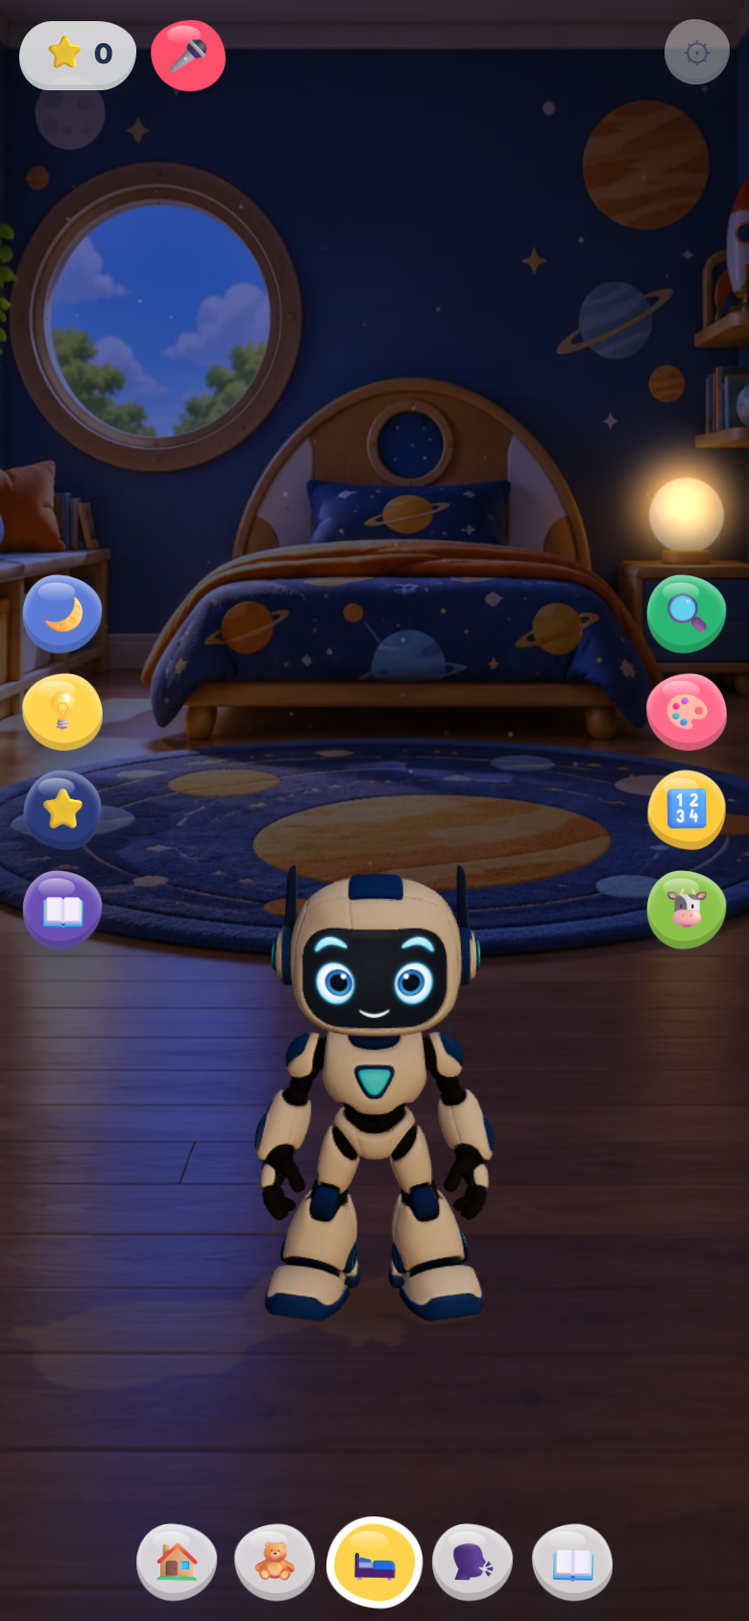
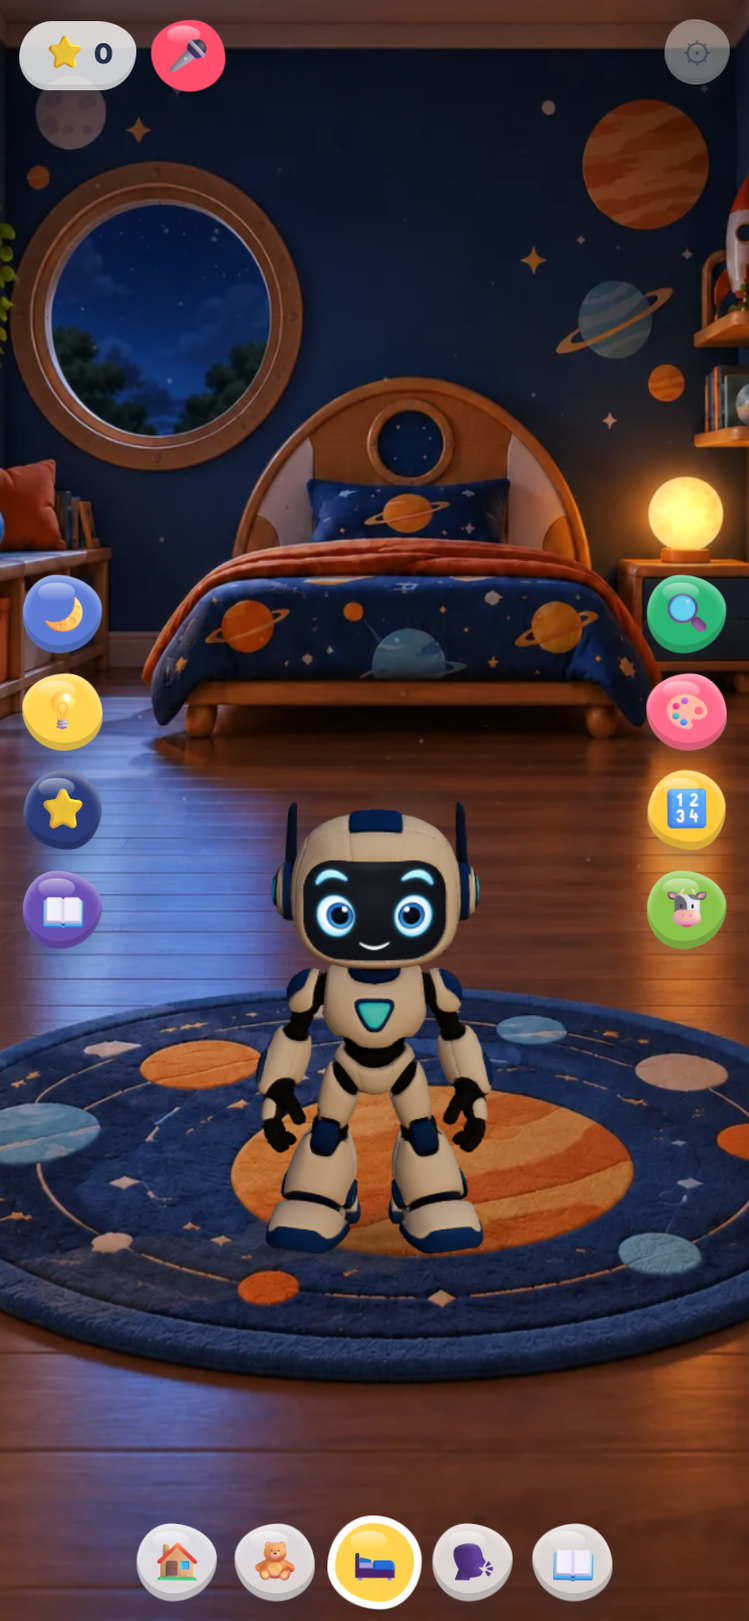
Mid-century living room; new bedroom with a night picture that the lights-off fades to

diff --git a/index.html b/index.html
@@ -1527,19 +1527,19 @@ const PAINT={
       place:{teddy:[.3,.75],cow:[.7,.76]},light:{sun:['#fff3e0',1.15],dir:[6,8,-1],hemi:['#e8f4ff','#b08a5e',.75],fill:['#fff0dd',.45],shadow:.32,exp:.95},
       beam:[.92,.18,158,.07,.75,.08],dust:[.25,.15,.85,.6],fg:{crop:[.86,0,.93,.6],at:'tr',h:.85},lamps:[],
       taps:[{r:[.427,.573,.479,.616],w:'w_car'},{r:[.91,.03,1,.45],w:'w_window'},{r:[.076,.464,.128,.55],w:'w_teddy'}]}},
-  // living room (Persian sunset) and bedroom (space explorer), 2026-10-25: taps with f = that furniture's action (tapFurniture: bed = sleep, lamp = lights)
-  home:{keep:[],portrait:{img:'assets/rooms/home_portrait.webp',size:[810,1440],focus:[.5,.5],fov:50,horizon:.3,wall:.475,goo:[.5,.82,.25],rug:[.5,.75,.42,.15],
-      light:{sun:['#ffcf9a',1.3],dir:[-2,8,-6],hemi:['#ffe6cc','#9a5a35',.7],fill:['#ffd9b0',.5],shadow:.38,exp:.95},beam:[.5,.3,90,.08,.7,.08],dust:[.2,.15,.8,.6],lamps:[[.895,.1,.06]],
-      taps:[{r:[.84,.03,.95,.16],f:'lamp'},{r:[.33,.07,.68,.37],w:'w_window'},{r:[0,.36,.27,.49],w:'w_chair'},{r:[.88,.28,1,.38],w:'w_tea'}]},
-    landscape:{img:'assets/rooms/home_landscape.webp',size:[1440,810],focus:[.5,.55],fov:50,horizon:.42,wall:.665,goo:[.5,.82,.3],rug:[.5,.84,.36,.12],
-      light:{sun:['#ffcf9a',1.3],dir:[-2,8,-6],hemi:['#ffe6cc','#9a5a35',.7],fill:['#ffd9b0',.5],shadow:.38,exp:.95},beam:[.5,.35,90,.07,.65,.08],dust:[.2,.15,.8,.6],lamps:[[.78,.15,.05]],
-      taps:[{r:[.74,.05,.82,.23],f:'lamp'},{r:[.38,.09,.62,.5],w:'w_window'},{r:[.14,.47,.3,.66],w:'w_chair'},{r:[.8,.37,.87,.5],w:'w_tea'}]}},
-  bed:{keep:[],portrait:{img:'assets/rooms/bed_portrait.webp',size:[810,1440],focus:[.5,.55],fov:50,horizon:.26,wall:.42,goo:[.5,.8,.26],rug:[.5,.78,.38,.12],
-      light:{sun:['#fff0dc',1.15],dir:[5,8,-2],hemi:['#e2e9ff','#8a5a3a',.75],fill:['#ffe6c8',.45],shadow:.32,exp:.95},beam:[.2,.2,60,.05,.8,.07],dust:[.15,.1,.85,.55],lamps:[[.84,.31,.06]],
-      taps:[{r:[.27,.22,.8,.44],f:'bed'},{r:[.77,.27,.9,.42],f:'lamp'},{r:[.1,.1,.32,.27],w:'w_window'},{r:[.86,.06,.94,.17],w:'w_rocket'},{r:[.11,.04,.21,.11],w:'w_moon'}]},
-    landscape:{img:'assets/rooms/bed_landscape.webp',size:[1440,810],focus:[.5,.62],fov:50,horizon:.5,wall:.6,goo:[.5,.86,.27],rug:[.5,.8,.32,.1],
-      light:{sun:['#fff0dc',1.15],dir:[5,8,-2],hemi:['#e2e9ff','#8a5a3a',.75],fill:['#ffe6c8',.45],shadow:.32,exp:.95},beam:[.32,.25,60,.05,.7,.07],dust:[.15,.1,.85,.55],lamps:[[.695,.42,.05]],
-      taps:[{r:[.34,.3,.65,.62],f:'bed'},{r:[.66,.38,.74,.56],f:'lamp'},{r:[.24,.12,.41,.32],w:'w_window'},{r:[.78,.07,.82,.21],w:'w_rocket'},{r:[.23,.03,.29,.13],w:'w_moon'}]}}};
+  // living room (mid-century) and bedroom (space explorer, with a night picture), 2026-10-26: taps with f = that furniture's action (tapFurniture: bed = sleep, lamp = lights); night = the picture lights-off fades to
+  home:{keep:[],portrait:{img:'assets/rooms/home_portrait.webp',size:[810,1440],focus:[.5,.55],fov:50,horizon:.26,wall:.44,goo:[.5,.76,.25],rug:[.5,.73,.46,.11],
+      light:{sun:['#ffdcaa',1.25],dir:[-3,8,-5],hemi:['#fff0dc','#9a6a40',.72],fill:['#ffe2c0',.5],shadow:.36,exp:.95},beam:[.5,.32,95,.08,.7,.07],dust:[.2,.15,.8,.6],lamps:[],
+      taps:[{r:[.34,.12,.64,.36],w:'w_window'},{r:[.04,.32,.35,.46],w:'w_chair'}]},
+    landscape:{img:'assets/rooms/home_landscape.webp',size:[1440,810],focus:[.5,.6],fov:50,horizon:.42,wall:.533,goo:[.5,.81,.36],rug:[.5,.795,.285,.135],
+      light:{sun:['#ffdcaa',1.25],dir:[-3,8,-5],hemi:['#fff0dc','#9a6a40',.72],fill:['#ffe2c0',.5],shadow:.36,exp:.95},beam:[.5,.3,95,.07,.65,.07],dust:[.2,.15,.8,.6],lamps:[],
+      taps:[{r:[.39,.1,.61,.44],w:'w_window'},{r:[.11,.36,.28,.58],w:'w_chair'}]}},
+  bed:{keep:[],portrait:{img:'assets/rooms/bed_portrait.webp',night:'assets/rooms/bed_portrait_night.webp',size:[810,1440],focus:[.5,.55],fov:50,horizon:.26,wall:.425,goo:[.5,.76,.26],rug:[.5,.72,.46,.12],
+      light:{sun:['#fff0dc',1.15],dir:[5,8,-2],hemi:['#e2e9ff','#8a5a3a',.75],fill:['#ffe6c8',.45],shadow:.32,exp:.95},beam:[.25,.2,60,.05,.8,.07],dust:[.15,.1,.85,.55],lamps:[[.842,.316,.05]],
+      taps:[{r:[.26,.23,.79,.45],f:'bed'},{r:[.79,.29,.9,.43],f:'lamp'},{r:[.1,.1,.42,.29],w:'w_window'},{r:[.87,.1,.94,.18],w:'w_rocket'},{r:[.12,.04,.21,.09],w:'w_moon'}]},
+    landscape:{img:'assets/rooms/bed_landscape.webp',night:'assets/rooms/bed_landscape_night.webp',size:[1440,810],focus:[.5,.6],fov:50,horizon:.4,wall:.5,goo:[.5,.85,.34],rug:[.5,.833,.32,.14],
+      light:{sun:['#fff0dc',1.15],dir:[5,8,-2],hemi:['#e2e9ff','#8a5a3a',.75],fill:['#ffe6c8',.45],shadow:.32,exp:.95},beam:[.3,.2,60,.05,.7,.07],dust:[.15,.1,.85,.55],lamps:[[.699,.36,.04]],
+      taps:[{r:[.34,.22,.65,.57],f:'bed'},{r:[.66,.31,.75,.55],f:'lamp'},{r:[.19,.03,.41,.36],w:'w_window'},{r:[.76,.04,.83,.18],w:'w_rocket'}]}}};
 const PAINT0=JSON.parse(JSON.stringify(PAINT)); // the built-in pictures (Design mode: "painted room" on again)
 let PNT=null,PK='',PW=null,libPage=0,libPages=[[]],libStoryP=0,libSlide=null,libSel=-1,libIdx={};const POSE=[],_pv=V3(),_pq=new THREE.Quaternion();
 const pOf=r=>{const B=PAINT[r];return B?B[portrait?'portrait':'landscape']||B.portrait||B.landscape||null:null}; // no picture for this orientation: the other one (cover fit, still no bars)
@@ -1548,11 +1548,11 @@ const paintLib=()=>!!(PNT&&PW&&PW.cells&&curRoom==='library');
 // one full-screen triangle pair drawn first (no depth), and the sparkles: both map the screen to the picture with the same numbers (uM = the cover fit, uT/uZ = the camera's pan/zoom since then)
 const pU={uMap:{value:null},uHas:{value:0},uFill:{value:new THREE.Color(0xe9dccb)},uRes:{value:new THREE.Vector2(1,1)},uM:{value:new THREE.Vector4(0,0,1,1)},uT:{value:new THREE.Vector4()},uZ:{value:1},
   uAsp:{value:1},uMul:{value:new THREE.Color(1,1,1)},uNight:{value:0},uTime:{value:0},uBeam:{value:new THREE.Vector4()},uBeam2:{value:new THREE.Vector2()},uLamp:{value:[0,1,2,3].map(()=>new THREE.Vector4())},
-  uDust:{value:new THREE.Vector4()},uDustA:{value:1},uDpr:{value:1}};
+  uDust:{value:new THREE.Vector4()},uDustA:{value:1},uDpr:{value:1},uMapN:{value:null},uMix:{value:0}};let pMixT=0; // uMapN = the night picture (bedroom), uMix fades to it when the lights go off
 const pBg=new THREE.Mesh(new THREE.PlaneGeometry(2,2),new THREE.ShaderMaterial({uniforms:pU,depthTest:false,depthWrite:false,
   vertexShader:'uniform vec2 uRes;varying vec2 vS;void main(){vS=vec2((position.x*.5+.5)*uRes.x,(.5-position.y*.5)*uRes.y);gl_Position=vec4(position.xy,0.,1.);}',
-  fragmentShader:`uniform sampler2D uMap;uniform float uHas,uZ,uAsp,uNight,uTime;uniform vec3 uFill,uMul;uniform vec4 uM,uT,uBeam,uLamp[4];uniform vec2 uBeam2;varying vec2 vS;
-void main(){vec2 q=uT.xy+(vS-uT.zw)/uZ,uv=(q-uM.xy)/uM.zw;vec3 c=uHas>.5?texture2D(uMap,vec2(uv.x,1.-uv.y)).rgb:uFill;
+  fragmentShader:`uniform sampler2D uMap,uMapN;uniform float uMix,uHas,uZ,uAsp,uNight,uTime;uniform vec3 uFill,uMul;uniform vec4 uM,uT,uBeam,uLamp[4];uniform vec2 uBeam2;varying vec2 vS;
+void main(){vec2 q=uT.xy+(vS-uT.zw)/uZ,uv=(q-uM.xy)/uM.zw;vec3 c=uHas>.5?texture2D(uMap,vec2(uv.x,1.-uv.y)).rgb:uFill;if(uMix>0.)c=mix(c,texture2D(uMapN,vec2(uv.x,1.-uv.y)).rgb,uMix);
  vec2 d=(uv-uBeam.xy)*vec2(uAsp,1.),r=vec2(cos(uBeam.z),sin(uBeam.z));float a=dot(d,r),b=abs(dot(d,vec2(-r.y,r.x))),wd=uBeam.w*(.5+a);
  c+=vec3(1.,.87,.62)*uBeam2.y*(1.-uNight)*smoothstep(wd,wd*.15,b)*smoothstep(0.,.08,a)*(1.-smoothstep(uBeam2.x*.35,uBeam2.x,a))*(.82+.18*sin(uTime*.5+b*28.));
  c*=uMul;for(int i=0;i<4;i++){vec4 l=uLamp[i];float g=1.-smoothstep(0.,l.z+.001,length((uv-l.xy)*vec2(uAsp,1.)));c+=vec3(1.,.74,.4)*g*g*l.w*uNight;}
@@ -1577,16 +1577,18 @@ const clipL=new THREE.Plane(new THREE.Vector3(1,0,0),1e6),clipR=new THREE.Plane(
 libMat.emissive=new THREE.Color(0xffffff);libMat.emissiveMap=libTex;libMat.emissiveIntensity=.68;libMat.color.setScalar(.3);libMat.envMapIntensity=.2;libMat.roughness=.8;libMat.toneMapped=false;
 // covers at their true colour in both libraries: mostly the atlas itself (emissive), a little room light for shading, no tone mapping (ACES washed them out); night = .3 (setLights)
 const pFg=document.getElementById('pFg'),pgPrev=document.getElementById('pgPrev'),pgNext=document.getElementById('pgNext'),pgDots=document.getElementById('pgDots');
-function paintLoad(P){const t0=pU.uMap.value;if(t0){t0.dispose();pU.uMap.value=null}pU.uHas.value=0;pFg.style.backgroundImage='';if(!P)return;const k=PK;
+function paintLoad(P){const t0=pU.uMap.value,n0=pU.uMapN.value;if(t0){t0.dispose();pU.uMap.value=null}if(n0){n0.dispose();pU.uMapN.value=null}pU.uMix.value=0;pU.uHas.value=0;pFg.style.backgroundImage='';if(!P)return;const k=PK;
   new THREE.TextureLoader().load(P.img,t=>{if(PK!==k){t.dispose();return}const w2=renderer.capabilities.isWebGL2;t.generateMipmaps=w2;t.minFilter=w2?THREE.LinearMipmapLinearFilter:THREE.LinearFilter;
-    pU.uMap.value=t;pU.uHas.value=1;pFg.style.backgroundImage=`url("${P.img}")`},undefined,e=>console.warn('painting',P.img,e))} // only this room's picture for this orientation is on the GPU
+    pU.uMap.value=t;pU.uHas.value=1;pFg.style.backgroundImage=`url("${P.img}")`},undefined,e=>console.warn('painting',P.img,e));
+  if(P.night)new THREE.TextureLoader().load(P.night,t=>{if(PK!==k){t.dispose();return}t.generateMipmaps=renderer.capabilities.isWebGL2;t.minFilter=t.generateMipmaps?THREE.LinearMipmapLinearFilter:THREE.LinearFilter;pU.uMapN.value=t;pU.uMix.value=pMixT},undefined,e=>console.warn('painting',P.night,e))} // a night picture is loaded with it, so lights off is a fade, not a load // only this room's picture for this orientation is on the GPU
 function paintRestore(){sun.color.setHex(0xfff1dc);sun.position.set(-3.5,9,5.5);sun.target.position.set(0,0,0);sun.target.updateMatrixWorld();hemiL.color.setHex(0xdfeeff);hemiL.groundColor.setHex(0xb08a5e);
   fill.color.setHex(0xffe2c4);fill.position.set(5,4,8);const L=lightsOn?ROOM_DAY:ROOM_NIGHT;sun.intensity=L.sun;hemiL.intensity=L.hemi;windowGlow.intensity=L.win;fill.intensity=L.fill;renderer.toneMappingExposure=L.exp} // the 3D rooms' light, as set up above
 function paintLights(){const P=PNT;if(!P)return;const Lt=P.light||{},n=!lightsOn,c=(a,d)=>a||d,sn=c(Lt.sun,['#fff1dc',1.1]),hm=c(Lt.hemi,['#fff1dc','#9a6a45',.7]),fl=c(Lt.fill,['#ffe6c8',.5]),dr=c(Lt.dir,[-4,9,-3]);
   sun.color.set(sn[0]);sun.intensity=n?.1:sn[1];sun.position.set(HOME.x+dr[0],dr[1],HOME.z+dr[2]);sun.target.position.set(HOME.x,0,HOME.z);sun.target.updateMatrixWorld();
   hemiL.color.set(n?'#8fa0d8':hm[0]);hemiL.groundColor.set(hm[1]);hemiL.intensity=n?.28:hm[2];fill.color.set(n?'#ffb870':fl[0]);fill.intensity=n?.38:fl[1];fill.position.set(HOME.x+3,4,HOME.z+8);
   windowGlow.intensity=0;renderer.toneMappingExposure=Lt.exp||.95;pFloor.material.opacity=(Lt.shadow??.35)*(n?.4:1);pBlob.material.opacity=n?.55:1;
-  pU.uNight.value=n?1:0;pU.uMul.value.set(n?'#5a66a8':'#ffffff');pU.uDustA.value=n?.25:1;pFg.classList.toggle('dark',n);(P.lamps||[]).forEach((l,i)=>i<4&&pU.uLamp.value[i].set(l[0],l[1],l[2],1));for(let i=(P.lamps||[]).length;i<4;i++)pU.uLamp.value[i].w=0}
+  const nP=!!P.night;pMixT=n&&nP?1:0;pU.uNight.value=n?1:0;pU.uMul.value.set(n?(nP?'#e4e4f2':'#5a66a8'):'#ffffff');pU.uDustA.value=n?.25:1;pFg.classList.toggle('dark',n);(P.lamps||[]).forEach((l,i)=>i<4&&pU.uLamp.value[i].set(l[0],l[1],l[2],nP?.45:1)); // night picture: already dark, so a light tint and softer lamp glows
+  for(let i=(P.lamps||[]).length;i<4;i++)pU.uLamp.value[i].w=0}
 function paintVis(){const on=!!PNT;room.visible=!on;pBg.visible=pDust.visible=pFloor.visible=pBlob.visible=on;
   if(on)paintLights();else{paintRestore();pFg.classList.add('off');pgPrev.hidden=pgNext.hidden=pgDots.hidden=true;pGlow.visible=false;libSlide=null;clipL.constant=clipR.constant=1e6}}
 // called at the end of resize(): the cover fit, then the camera from the painting (horizon + his feet + his height), then everything that sits on the painting
@@ -1657,7 +1659,7 @@ pgPrev.onclick=()=>{st.lastPoke=performance.now();paintPage(libPage-1)};pgNext.o
 function paintTap(x,y){if(!PNT||!PW||!PW.taps.length)return false;const z=pU.uZ.value,T=pU.uT.value,M=pU.uM.value,u=(T.x+(x-T.z)/z-M.x)/M.z,v=(T.y+(y-T.w)/z-M.y)/M.w;
   const t=PW.taps.find(t=>u>=t.r[0]&&u<=t.r[2]&&v>=t.r[1]&&v<=t.r[3]);if(!t||game.type||!t.f&&!HAS.has(t.w))return false;if(t.f){tapFurniture(t.f);return true}st.lastPoke=performance.now();setFace('shock',400);kick('squash',3);sayAsync(t.w).then(()=>setFace('laugh',700));return true}
 // every frame in a painted room: the picture follows the camera (card pan, face close-up), the blob follows his feet, the selected book glows, pages slide
-function paintTick(dt,t){if(!PNT||!PW)return;pU.uTime.value=t;
+function paintTick(dt,t){if(!PNT||!PW)return;pU.uTime.value=t;if(pU.uMapN.value)pU.uMix.value+=(pMixT-pU.uMix.value)*Math.min(1,dt*4);
   _pv.copy(PW.anc).project(camera);const px=(_pv.x+1)/2*innerWidth,py=(1-_pv.y)/2*innerHeight,Z=camera.zoom*PW.dist/Math.max(.01,PW.anc.distanceTo(camera.position));
   pU.uT.value.set(PW.wb[0],PW.wb[1],px,py);pU.uZ.value=Z;
   if(discoOn)pU.uMul.value.setHSL(t*.35%1,.55,.42);

diff --git a/src_pash-robot.html b/src_pash-robot.html
@@ -1526,19 +1526,19 @@ const PAINT={
       place:{teddy:[.3,.75],cow:[.7,.76]},light:{sun:['#fff3e0',1.15],dir:[6,8,-1],hemi:['#e8f4ff','#b08a5e',.75],fill:['#fff0dd',.45],shadow:.32,exp:.95},
       beam:[.92,.18,158,.07,.75,.08],dust:[.25,.15,.85,.6],fg:{crop:[.86,0,.93,.6],at:'tr',h:.85},lamps:[],
       taps:[{r:[.427,.573,.479,.616],w:'w_car'},{r:[.91,.03,1,.45],w:'w_window'},{r:[.076,.464,.128,.55],w:'w_teddy'}]}},
-  // living room (Persian sunset) and bedroom (space explorer), 2026-10-25: taps with f = that furniture's action (tapFurniture: bed = sleep, lamp = lights)
-  home:{keep:[],portrait:{img:'assets/rooms/home_portrait.webp',size:[810,1440],focus:[.5,.5],fov:50,horizon:.3,wall:.475,goo:[.5,.82,.25],rug:[.5,.75,.42,.15],
-      light:{sun:['#ffcf9a',1.3],dir:[-2,8,-6],hemi:['#ffe6cc','#9a5a35',.7],fill:['#ffd9b0',.5],shadow:.38,exp:.95},beam:[.5,.3,90,.08,.7,.08],dust:[.2,.15,.8,.6],lamps:[[.895,.1,.06]],
-      taps:[{r:[.84,.03,.95,.16],f:'lamp'},{r:[.33,.07,.68,.37],w:'w_window'},{r:[0,.36,.27,.49],w:'w_chair'},{r:[.88,.28,1,.38],w:'w_tea'}]},
-    landscape:{img:'assets/rooms/home_landscape.webp',size:[1440,810],focus:[.5,.55],fov:50,horizon:.42,wall:.665,goo:[.5,.82,.3],rug:[.5,.84,.36,.12],
-      light:{sun:['#ffcf9a',1.3],dir:[-2,8,-6],hemi:['#ffe6cc','#9a5a35',.7],fill:['#ffd9b0',.5],shadow:.38,exp:.95},beam:[.5,.35,90,.07,.65,.08],dust:[.2,.15,.8,.6],lamps:[[.78,.15,.05]],
-      taps:[{r:[.74,.05,.82,.23],f:'lamp'},{r:[.38,.09,.62,.5],w:'w_window'},{r:[.14,.47,.3,.66],w:'w_chair'},{r:[.8,.37,.87,.5],w:'w_tea'}]}},
-  bed:{keep:[],portrait:{img:'assets/rooms/bed_portrait.webp',size:[810,1440],focus:[.5,.55],fov:50,horizon:.26,wall:.42,goo:[.5,.8,.26],rug:[.5,.78,.38,.12],
-      light:{sun:['#fff0dc',1.15],dir:[5,8,-2],hemi:['#e2e9ff','#8a5a3a',.75],fill:['#ffe6c8',.45],shadow:.32,exp:.95},beam:[.2,.2,60,.05,.8,.07],dust:[.15,.1,.85,.55],lamps:[[.84,.31,.06]],
-      taps:[{r:[.27,.22,.8,.44],f:'bed'},{r:[.77,.27,.9,.42],f:'lamp'},{r:[.1,.1,.32,.27],w:'w_window'},{r:[.86,.06,.94,.17],w:'w_rocket'},{r:[.11,.04,.21,.11],w:'w_moon'}]},
-    landscape:{img:'assets/rooms/bed_landscape.webp',size:[1440,810],focus:[.5,.62],fov:50,horizon:.5,wall:.6,goo:[.5,.86,.27],rug:[.5,.8,.32,.1],
-      light:{sun:['#fff0dc',1.15],dir:[5,8,-2],hemi:['#e2e9ff','#8a5a3a',.75],fill:['#ffe6c8',.45],shadow:.32,exp:.95},beam:[.32,.25,60,.05,.7,.07],dust:[.15,.1,.85,.55],lamps:[[.695,.42,.05]],
-      taps:[{r:[.34,.3,.65,.62],f:'bed'},{r:[.66,.38,.74,.56],f:'lamp'},{r:[.24,.12,.41,.32],w:'w_window'},{r:[.78,.07,.82,.21],w:'w_rocket'},{r:[.23,.03,.29,.13],w:'w_moon'}]}}};
+  // living room (mid-century) and bedroom (space explorer, with a night picture), 2026-10-26: taps with f = that furniture's action (tapFurniture: bed = sleep, lamp = lights); night = the picture lights-off fades to
+  home:{keep:[],portrait:{img:'assets/rooms/home_portrait.webp',size:[810,1440],focus:[.5,.55],fov:50,horizon:.26,wall:.44,goo:[.5,.76,.25],rug:[.5,.73,.46,.11],
+      light:{sun:['#ffdcaa',1.25],dir:[-3,8,-5],hemi:['#fff0dc','#9a6a40',.72],fill:['#ffe2c0',.5],shadow:.36,exp:.95},beam:[.5,.32,95,.08,.7,.07],dust:[.2,.15,.8,.6],lamps:[],
+      taps:[{r:[.34,.12,.64,.36],w:'w_window'},{r:[.04,.32,.35,.46],w:'w_chair'}]},
+    landscape:{img:'assets/rooms/home_landscape.webp',size:[1440,810],focus:[.5,.6],fov:50,horizon:.42,wall:.533,goo:[.5,.81,.36],rug:[.5,.795,.285,.135],
+      light:{sun:['#ffdcaa',1.25],dir:[-3,8,-5],hemi:['#fff0dc','#9a6a40',.72],fill:['#ffe2c0',.5],shadow:.36,exp:.95},beam:[.5,.3,95,.07,.65,.07],dust:[.2,.15,.8,.6],lamps:[],
+      taps:[{r:[.39,.1,.61,.44],w:'w_window'},{r:[.11,.36,.28,.58],w:'w_chair'}]}},
+  bed:{keep:[],portrait:{img:'assets/rooms/bed_portrait.webp',night:'assets/rooms/bed_portrait_night.webp',size:[810,1440],focus:[.5,.55],fov:50,horizon:.26,wall:.425,goo:[.5,.76,.26],rug:[.5,.72,.46,.12],
+      light:{sun:['#fff0dc',1.15],dir:[5,8,-2],hemi:['#e2e9ff','#8a5a3a',.75],fill:['#ffe6c8',.45],shadow:.32,exp:.95},beam:[.25,.2,60,.05,.8,.07],dust:[.15,.1,.85,.55],lamps:[[.842,.316,.05]],
+      taps:[{r:[.26,.23,.79,.45],f:'bed'},{r:[.79,.29,.9,.43],f:'lamp'},{r:[.1,.1,.42,.29],w:'w_window'},{r:[.87,.1,.94,.18],w:'w_rocket'},{r:[.12,.04,.21,.09],w:'w_moon'}]},
+    landscape:{img:'assets/rooms/bed_landscape.webp',night:'assets/rooms/bed_landscape_night.webp',size:[1440,810],focus:[.5,.6],fov:50,horizon:.4,wall:.5,goo:[.5,.85,.34],rug:[.5,.833,.32,.14],
+      light:{sun:['#fff0dc',1.15],dir:[5,8,-2],hemi:['#e2e9ff','#8a5a3a',.75],fill:['#ffe6c8',.45],shadow:.32,exp:.95},beam:[.3,.2,60,.05,.7,.07],dust:[.15,.1,.85,.55],lamps:[[.699,.36,.04]],
+      taps:[{r:[.34,.22,.65,.57],f:'bed'},{r:[.66,.31,.75,.55],f:'lamp'},{r:[.19,.03,.41,.36],w:'w_window'},{r:[.76,.04,.83,.18],w:'w_rocket'}]}}};
 const PAINT0=JSON.parse(JSON.stringify(PAINT)); // the built-in pictures (Design mode: "painted room" on again)
 let PNT=null,PK='',PW=null,libPage=0,libPages=[[]],libStoryP=0,libSlide=null,libSel=-1,libIdx={};const POSE=[],_pv=V3(),_pq=new THREE.Quaternion();
 const pOf=r=>{const B=PAINT[r];return B?B[portrait?'portrait':'landscape']||B.portrait||B.landscape||null:null}; // no picture for this orientation: the other one (cover fit, still no bars)
@@ -1547,11 +1547,11 @@ const paintLib=()=>!!(PNT&&PW&&PW.cells&&curRoom==='library');
 // one full-screen triangle pair drawn first (no depth), and the sparkles: both map the screen to the picture with the same numbers (uM = the cover fit, uT/uZ = the camera's pan/zoom since then)
 const pU={uMap:{value:null},uHas:{value:0},uFill:{value:new THREE.Color(0xe9dccb)},uRes:{value:new THREE.Vector2(1,1)},uM:{value:new THREE.Vector4(0,0,1,1)},uT:{value:new THREE.Vector4()},uZ:{value:1},
   uAsp:{value:1},uMul:{value:new THREE.Color(1,1,1)},uNight:{value:0},uTime:{value:0},uBeam:{value:new THREE.Vector4()},uBeam2:{value:new THREE.Vector2()},uLamp:{value:[0,1,2,3].map(()=>new THREE.Vector4())},
-  uDust:{value:new THREE.Vector4()},uDustA:{value:1},uDpr:{value:1}};
+  uDust:{value:new THREE.Vector4()},uDustA:{value:1},uDpr:{value:1},uMapN:{value:null},uMix:{value:0}};let pMixT=0; // uMapN = the night picture (bedroom), uMix fades to it when the lights go off
 const pBg=new THREE.Mesh(new THREE.PlaneGeometry(2,2),new THREE.ShaderMaterial({uniforms:pU,depthTest:false,depthWrite:false,
   vertexShader:'uniform vec2 uRes;varying vec2 vS;void main(){vS=vec2((position.x*.5+.5)*uRes.x,(.5-position.y*.5)*uRes.y);gl_Position=vec4(position.xy,0.,1.);}',
-  fragmentShader:`uniform sampler2D uMap;uniform float uHas,uZ,uAsp,uNight,uTime;uniform vec3 uFill,uMul;uniform vec4 uM,uT,uBeam,uLamp[4];uniform vec2 uBeam2;varying vec2 vS;
-void main(){vec2 q=uT.xy+(vS-uT.zw)/uZ,uv=(q-uM.xy)/uM.zw;vec3 c=uHas>.5?texture2D(uMap,vec2(uv.x,1.-uv.y)).rgb:uFill;
+  fragmentShader:`uniform sampler2D uMap,uMapN;uniform float uMix,uHas,uZ,uAsp,uNight,uTime;uniform vec3 uFill,uMul;uniform vec4 uM,uT,uBeam,uLamp[4];uniform vec2 uBeam2;varying vec2 vS;
+void main(){vec2 q=uT.xy+(vS-uT.zw)/uZ,uv=(q-uM.xy)/uM.zw;vec3 c=uHas>.5?texture2D(uMap,vec2(uv.x,1.-uv.y)).rgb:uFill;if(uMix>0.)c=mix(c,texture2D(uMapN,vec2(uv.x,1.-uv.y)).rgb,uMix);
  vec2 d=(uv-uBeam.xy)*vec2(uAsp,1.),r=vec2(cos(uBeam.z),sin(uBeam.z));float a=dot(d,r),b=abs(dot(d,vec2(-r.y,r.x))),wd=uBeam.w*(.5+a);
  c+=vec3(1.,.87,.62)*uBeam2.y*(1.-uNight)*smoothstep(wd,wd*.15,b)*smoothstep(0.,.08,a)*(1.-smoothstep(uBeam2.x*.35,uBeam2.x,a))*(.82+.18*sin(uTime*.5+b*28.));
  c*=uMul;for(int i=0;i<4;i++){vec4 l=uLamp[i];float g=1.-smoothstep(0.,l.z+.001,length((uv-l.xy)*vec2(uAsp,1.)));c+=vec3(1.,.74,.4)*g*g*l.w*uNight;}
@@ -1576,16 +1576,18 @@ const clipL=new THREE.Plane(new THREE.Vector3(1,0,0),1e6),clipR=new THREE.Plane(
 libMat.emissive=new THREE.Color(0xffffff);libMat.emissiveMap=libTex;libMat.emissiveIntensity=.68;libMat.color.setScalar(.3);libMat.envMapIntensity=.2;libMat.roughness=.8;libMat.toneMapped=false;
 // covers at their true colour in both libraries: mostly the atlas itself (emissive), a little room light for shading, no tone mapping (ACES washed them out); night = .3 (setLights)
 const pFg=document.getElementById('pFg'),pgPrev=document.getElementById('pgPrev'),pgNext=document.getElementById('pgNext'),pgDots=document.getElementById('pgDots');
-function paintLoad(P){const t0=pU.uMap.value;if(t0){t0.dispose();pU.uMap.value=null}pU.uHas.value=0;pFg.style.backgroundImage='';if(!P)return;const k=PK;
+function paintLoad(P){const t0=pU.uMap.value,n0=pU.uMapN.value;if(t0){t0.dispose();pU.uMap.value=null}if(n0){n0.dispose();pU.uMapN.value=null}pU.uMix.value=0;pU.uHas.value=0;pFg.style.backgroundImage='';if(!P)return;const k=PK;
   new THREE.TextureLoader().load(P.img,t=>{if(PK!==k){t.dispose();return}const w2=renderer.capabilities.isWebGL2;t.generateMipmaps=w2;t.minFilter=w2?THREE.LinearMipmapLinearFilter:THREE.LinearFilter;
-    pU.uMap.value=t;pU.uHas.value=1;pFg.style.backgroundImage=`url("${P.img}")`},undefined,e=>console.warn('painting',P.img,e))} // only this room's picture for this orientation is on the GPU
+    pU.uMap.value=t;pU.uHas.value=1;pFg.style.backgroundImage=`url("${P.img}")`},undefined,e=>console.warn('painting',P.img,e));
+  if(P.night)new THREE.TextureLoader().load(P.night,t=>{if(PK!==k){t.dispose();return}t.generateMipmaps=renderer.capabilities.isWebGL2;t.minFilter=t.generateMipmaps?THREE.LinearMipmapLinearFilter:THREE.LinearFilter;pU.uMapN.value=t;pU.uMix.value=pMixT},undefined,e=>console.warn('painting',P.night,e))} // a night picture is loaded with it, so lights off is a fade, not a load // only this room's picture for this orientation is on the GPU
 function paintRestore(){sun.color.setHex(0xfff1dc);sun.position.set(-3.5,9,5.5);sun.target.position.set(0,0,0);sun.target.updateMatrixWorld();hemiL.color.setHex(0xdfeeff);hemiL.groundColor.setHex(0xb08a5e);
   fill.color.setHex(0xffe2c4);fill.position.set(5,4,8);const L=lightsOn?ROOM_DAY:ROOM_NIGHT;sun.intensity=L.sun;hemiL.intensity=L.hemi;windowGlow.intensity=L.win;fill.intensity=L.fill;renderer.toneMappingExposure=L.exp} // the 3D rooms' light, as set up above
 function paintLights(){const P=PNT;if(!P)return;const Lt=P.light||{},n=!lightsOn,c=(a,d)=>a||d,sn=c(Lt.sun,['#fff1dc',1.1]),hm=c(Lt.hemi,['#fff1dc','#9a6a45',.7]),fl=c(Lt.fill,['#ffe6c8',.5]),dr=c(Lt.dir,[-4,9,-3]);
   sun.color.set(sn[0]);sun.intensity=n?.1:sn[1];sun.position.set(HOME.x+dr[0],dr[1],HOME.z+dr[2]);sun.target.position.set(HOME.x,0,HOME.z);sun.target.updateMatrixWorld();
   hemiL.color.set(n?'#8fa0d8':hm[0]);hemiL.groundColor.set(hm[1]);hemiL.intensity=n?.28:hm[2];fill.color.set(n?'#ffb870':fl[0]);fill.intensity=n?.38:fl[1];fill.position.set(HOME.x+3,4,HOME.z+8);
   windowGlow.intensity=0;renderer.toneMappingExposure=Lt.exp||.95;pFloor.material.opacity=(Lt.shadow??.35)*(n?.4:1);pBlob.material.opacity=n?.55:1;
-  pU.uNight.value=n?1:0;pU.uMul.value.set(n?'#5a66a8':'#ffffff');pU.uDustA.value=n?.25:1;pFg.classList.toggle('dark',n);(P.lamps||[]).forEach((l,i)=>i<4&&pU.uLamp.value[i].set(l[0],l[1],l[2],1));for(let i=(P.lamps||[]).length;i<4;i++)pU.uLamp.value[i].w=0}
+  const nP=!!P.night;pMixT=n&&nP?1:0;pU.uNight.value=n?1:0;pU.uMul.value.set(n?(nP?'#e4e4f2':'#5a66a8'):'#ffffff');pU.uDustA.value=n?.25:1;pFg.classList.toggle('dark',n);(P.lamps||[]).forEach((l,i)=>i<4&&pU.uLamp.value[i].set(l[0],l[1],l[2],nP?.45:1)); // night picture: already dark, so a light tint and softer lamp glows
+  for(let i=(P.lamps||[]).length;i<4;i++)pU.uLamp.value[i].w=0}
 function paintVis(){const on=!!PNT;room.visible=!on;pBg.visible=pDust.visible=pFloor.visible=pBlob.visible=on;
   if(on)paintLights();else{paintRestore();pFg.classList.add('off');pgPrev.hidden=pgNext.hidden=pgDots.hidden=true;pGlow.visible=false;libSlide=null;clipL.constant=clipR.constant=1e6}}
 // called at the end of resize(): the cover fit, then the camera from the painting (horizon + his feet + his height), then everything that sits on the painting
@@ -1656,7 +1658,7 @@ pgPrev.onclick=()=>{st.lastPoke=performance.now();paintPage(libPage-1)};pgNext.o
 function paintTap(x,y){if(!PNT||!PW||!PW.taps.length)return false;const z=pU.uZ.value,T=pU.uT.value,M=pU.uM.value,u=(T.x+(x-T.z)/z-M.x)/M.z,v=(T.y+(y-T.w)/z-M.y)/M.w;
   const t=PW.taps.find(t=>u>=t.r[0]&&u<=t.r[2]&&v>=t.r[1]&&v<=t.r[3]);if(!t||game.type||!t.f&&!HAS.has(t.w))return false;if(t.f){tapFurniture(t.f);return true}st.lastPoke=performance.now();setFace('shock',400);kick('squash',3);sayAsync(t.w).then(()=>setFace('laugh',700));return true}
 // every frame in a painted room: the picture follows the camera (card pan, face close-up), the blob follows his feet, the selected book glows, pages slide
-function paintTick(dt,t){if(!PNT||!PW)return;pU.uTime.value=t;
+function paintTick(dt,t){if(!PNT||!PW)return;pU.uTime.value=t;if(pU.uMapN.value)pU.uMix.value+=(pMixT-pU.uMix.value)*Math.min(1,dt*4);
   _pv.copy(PW.anc).project(camera);const px=(_pv.x+1)/2*innerWidth,py=(1-_pv.y)/2*innerHeight,Z=camera.zoom*PW.dist/Math.max(.01,PW.anc.distanceTo(camera.position));
   pU.uT.value.set(PW.wb[0],PW.wb[1],px,py);pU.uZ.value=Z;
   if(discoOn)pU.uMul.value.setHSL(t*.35%1,.55,.42);

diff --git a/sw.js b/sw.js
@@ -1,6 +1,6 @@
 // Googoo Robo service worker. tools/build.py rewrites the two versions below on every build:
 // a new page build = new shell cache, new/changed audio = new audio cache; old caches are deleted on activate.
-const SHELL_V='e05e6f2498',AUDIO_V='92904cdb22',SHELL='googoo-shell-'+SHELL_V,AUDIO='googoo-audio-'+AUDIO_V;
+const SHELL_V='9d9da2d3c2',AUDIO_V='92904cdb22',SHELL='googoo-shell-'+SHELL_V,AUDIO='googoo-audio-'+AUDIO_V;
 const PRE=['./','manifest.webmanifest','icons/icon-192.png','icons/icon-512.png','icons/apple-touch-icon.png','audio/manifest.json','vocab/stories.json',
   'https://cdnjs.cloudflare.com/ajax/libs/three.js/r128/three.min.js',
   'https://cdn.jsdelivr.net/npm/three@0.128.0/examples/js/loaders/GLTFLoader.js',

diff --git a/docs/HANDOFF.md b/docs/HANDOFF.md
@@ -39,6 +39,7 @@
    - **Play room:** the ball stays on the front half of the painted rug, inside the screen and the side rails (`PW.rug` ellipse; bounces off its edge); throws start at the rug's side. Tap zones on painted toys say their word when a clip exists (`taps`: car, window, ball, teddy, chair; `paintTap`).
    - **Calibration (built-in, picture fractions):** library portrait focus [.519,.6], fov 50, horizon .545, wall .733, goo [.5,.893,.24], rug [.483,.838,.402,.078], 7 cells (r2c2, r2c3, r3c1, r3c2, r4c1-3); library landscape focus [.515,.6], horizon .62, wall .762, goo [.512,.8,.27], rug [.531,.839,.309,.08], 4 cells (r2c2, r4c2, r4c4, r4c5: the only empty ones); play portrait focus [.545,.6], horizon .44, wall .62, goo [.53,.73,.25], rug [.545,.717,.388,.072], teddy [.33,.75], cow [.75,.755]; play landscape focus [.5,.62], horizon .495, wall .585, goo [.507,.79,.3], rug [.507,.766,.372,.124]. Horizons were estimated from the rug's foreshortening (circle seen as ry/rx = sin of the view angle) with a 50° vertical fov, then checked by eye.
    - **Add a room painting:** make 3:4 and 4:3 pictures (≤ 1440 px long side) → `assets/rooms/<room>_portrait.webp` / `_landscape.webp` (PIL: `im.save(..., 'WEBP', quality=82, method=6)`); in Design mode, Painting tab: tick Painted room, pick the picture for each screen kind, drag the marks (feet onto the rug, eye level until his size and perspective look right, rug box, compartments), Save. For a room with no built-in entry, add `keep` (3D props that stay) and `light`/`beam`/`fg` by hand in layout.json (or in `PAINT`).
+   - **2026-10-26: new pictures from the owner (made in ChatGPT/Gemini, prompts in docs/room-prompts.md):** living room = mid-century (round 2 option B), bedroom = updated space room (rug lower, Googoo on it) plus a night picture (`bed_*_night.webp`, picture key `night`): lights off fades to it (`uMapN`/`uMix`, both loaded together), with a light tint and softer lamp glow. Living room taps: window, chair (no lamp in the picture; the lamp button still works).
    - **Living room and bedroom painted too (2026-10-25):** `PAINT.home` (Persian sunset living room) and `PAINT.bed` (space bedroom), pictures `assets/rooms/{home,bed}_{portrait,landscape}.webp` (810x1440 / 1440x810, 92-122 KB). All their 3D furniture is hidden (`keep:[]`; the bedroom star mobile too: it hung in mid-air in front of the painting). Taps: `taps[].f` = a tapFurniture id: painted bed = sleep (bedroom), moon lamp / brass lantern = lights on/off; word taps window, chair, samovar (w_tea), rocket, moon. Night: the usual tint + `lamps` glow on the moon lamp / lantern. Googoo: living room centred on the rug; bedroom on the open floor just in front of the planet rug upright (on the rug it would cover the bed), on the rug sideways. Tap zones show as purple boxes in Design mode's Painting tab (draggable). GPU (phone 414x896): home 22 -> 7 draw calls, 54 -> 22 MB; bed 59 -> 7 calls, 43 -> 22 MB. Feed / card games / colour cards checked in both rooms. Shots `painted-{home,bed}{,-land,-night,-land-night,-360,-ipad}.png`.
    - **Book covers, picture-book style (2026-10-25):** `drawCovers()` (called by `buildBooks()`, again once Vazirmatn 800 has loaded) paints the 1024 px atlas `libTex`: colour pair per book from `LIBPAL` (cycled), darker spine left 13% with a light line (its colour is also the sides/top: uv .02), the icon (`LIBICO` per category, stories their cover emoji) with a white sticker edge (12 offset white silhouettes) and a drop shadow, the Farsi name (`LIBFA`, stories: short names) on a dark band. Colour: `libTex` is sRGB now (the encoding had been commented out = washed-out covers); `libMat` is mostly emissive (the atlas, .68 day / .3 night in `setLights`), diffuse .3, envMap .2, `toneMapped:false`: covers render within a few % of the palette in both the painted and the 3D library. Still 1 draw call; `libFly` uses the same material. Shots `painted-library{,-land,-night,-360,-ipad}.png`, `library-book-open.png`.
    - **Library layout fixes (2026-10-25):** ‹ › sit beside the painted shelf at mid-height when there is room inside the rails (sideways, iPad), else low at the screen sides above the tabs (phones upright); calibration `shelf` [u0,v0,u1,v1] = the painted shelf's outline (falls back to the cells' box). `#pgPrev,#pgNext` are `position:fixed` (the jelly `.rb` rule had made them relative), ≥ 48 px. Page dots in the top row, centred between the score and the parent button (`dots` key gone). Sideways focus [.515,.54] and goo [.512,.766,.23] so the painted teddy shows; Googoo stands just in front of the shelf and is smaller (~38% of the height at 844x390): there is no room for both the teddy and his feet above the tabs otherwise. Book tap boxes ≥ 46 px (`cells[].k`), overlapping neighbours a little on 360x640. Shots `painted-library{,-land,-page2,-360,-ipad}.png`.
